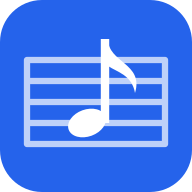
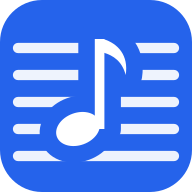
better savicon

diff --git a/index.html b/index.html
@@ -9,7 +9,7 @@
   <link rel="icon" href="icons/icon.svg" type="image/svg+xml">
   <link rel="apple-touch-icon" href="icons/icon-180.png">
   <script>try { var t = localStorage.getItem("mb-theme"); if (t === "light" || t === "auto") document.documentElement.setAttribute("data-theme", t); } catch (e) { }</script>
-  <link rel="stylesheet" href="css/style.css?v=d9353d9">
+  <link rel="stylesheet" href="css/style.css?v=e3fe70a">
 </head>
 <body>
   <main id="library">
@@ -117,22 +117,22 @@
   <div id="drop-hint">Drop to add to library</div>
 
   <script src="vendor/pdfjs/pdf.min.js"></script>
-  <script src="js/version.js?v=d9353d9"></script>
-  <script src="js/namespace.js?v=d9353d9"></script>
-  <script src="js/library.js?v=d9353d9"></script>
-  <script src="js/readers/pdf-reader.js?v=d9353d9"></script>
-  <script src="js/readers/image-reader.js?v=d9353d9"></script>
-  <script src="js/readers/index.js?v=d9353d9"></script>
-  <script src="js/input/midi.js?v=d9353d9"></script>
-  <script src="js/input/bindings.js?v=d9353d9"></script>
-  <script src="js/layout.js?v=d9353d9"></script>
-  <script src="js/annotate.js?v=d9353d9"></script>
-  <script src="js/viewer.js?v=d9353d9"></script>
-  <script src="js/theme.js?v=d9353d9"></script>
-  <script src="js/sync.js?v=d9353d9"></script>
-  <script src="js/sync-ui.js?v=d9353d9"></script>
-  <script src="js/settings-ui.js?v=d9353d9"></script>
-  <script src="js/app.js?v=d9353d9"></script>
+  <script src="js/version.js?v=e3fe70a"></script>
+  <script src="js/namespace.js?v=e3fe70a"></script>
+  <script src="js/library.js?v=e3fe70a"></script>
+  <script src="js/readers/pdf-reader.js?v=e3fe70a"></script>
+  <script src="js/readers/image-reader.js?v=e3fe70a"></script>
+  <script src="js/readers/index.js?v=e3fe70a"></script>
+  <script src="js/input/midi.js?v=e3fe70a"></script>
+  <script src="js/input/bindings.js?v=e3fe70a"></script>
+  <script src="js/layout.js?v=e3fe70a"></script>
+  <script src="js/annotate.js?v=e3fe70a"></script>
+  <script src="js/viewer.js?v=e3fe70a"></script>
+  <script src="js/theme.js?v=e3fe70a"></script>
+  <script src="js/sync.js?v=e3fe70a"></script>
+  <script src="js/sync-ui.js?v=e3fe70a"></script>
+  <script src="js/settings-ui.js?v=e3fe70a"></script>
+  <script src="js/app.js?v=e3fe70a"></script>
   <script>
     // local.js exists only on the author's machine (it is in .gitignore): if it loads, say so in the header and the tab title
     (function () {

diff --git a/sw.js b/sw.js
@@ -1,5 +1,5 @@
 // App-shell cache so Music Book opens offline. Bump VERSION when files change.
-const VERSION = 'mb-d9353d9';
+const VERSION = 'mb-e3fe70a';
 const SHELL = [
   './', 'index.html', 'css/style.css', 'manifest.webmanifest', 'icons/icon.svg', 'icons/icon-180.png', 'icons/icon-192.png', 'icons/icon-512.png', 'icons/icon-maskable-512.png',
   'vendor/pdfjs/pdf.min.js', 'vendor/pdfjs/pdf.worker.min.js',

diff --git a/js/version.js b/js/version.js
@@ -1,5 +1,5 @@
 /* generated by tools/build.py: do not edit */
-var APP_VERSION = '1.0 (build d9353d9)';
+var APP_VERSION = '1.0 (build e3fe70a)';
 (function () {
   function show() { Array.prototype.forEach.call(document.querySelectorAll('[data-version]'), function (e) { e.textContent = APP_VERSION; }); }
   if (document.readyState === 'loading') document.addEventListener('DOMContentLoaded', show); else show();
